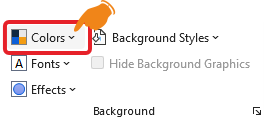
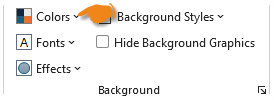
M

Changed region(s): [[0.0, 0.0, 1.0, 0.96], [0.3333, 0.84, 0.6061, 0.99]]

diff --git a/materi-powerpoint.html b/materi-powerpoint.html
@@ -3196,12 +3196,12 @@
                             <div class="col-md-6">
                               <ul>
                                 <li>
-                                  Buat Warna Tema: <strong>Warna Korporat</strong>
+                                  Membuat <strong>Tema Warna Korporat</strong> sendiri dengan nama "<strong>Warna Temaku</strong>".
                                   <div class="my-3">
                                     <img src="assets/img/Colors.png" alt="" class="img-fluid shadow rounded">
                                   </div>
                                   Pilih <strong>Customize Colors...</strong>
-                                  <div class="my-3">
+                                  <div class="mb-3">
                                     <img src="assets/img/Customize-Colors....png" alt=""
                                       class="img-fluid shadow rounded">
                                   </div>
@@ -3310,8 +3310,15 @@
                                 </li>
 
                                 <li>
-                                  <strong>Font Korporat:</strong> <br>
-                                  Pilih <strong>Customize Fonts...</strong> <br>
+                                  Membuat <strong>Tema Font Korporat</strong> sendiri dengan nama "<strong>Fontku</strong>". <br>
+                                  <div class="my-3">
+                                    <img src="assets/img/Fonts.png" alt="" class="img-fluid shadow rounded">
+                                  </div>
+                                  Pilih <strong>Customize Colors...</strong>
+                                  <div class="mb-3">
+                                    <img src="assets/img/Customize-Colors....png" alt=""
+                                      class="img-fluid shadow rounded">
+                                  </div>
                                   <ul class="dash-list">
                                     <li>Heading: Calibrit</li>
                                     <li>Body: Aptos</li>
